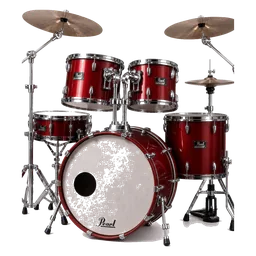
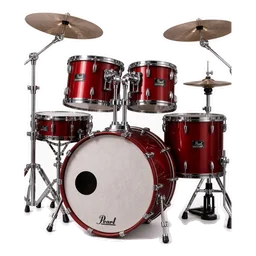
club27: solid rimshot drum heads; drop Regulars note blurb
Recut rimshot.webp so kick/tom/snare heads stay opaque white (edge flood
only removes border-connected background). Remove the static reg-note under
Regulars; empty-state copy in realtime.js drops the parenthetical. Bump
soundboard.js + realtime.js caches to club27.

Changed region(s): [[0.0625, 0.0312, 0.9375, 0.9688]]

diff --git a/soundboard.js b/soundboard.js
@@ -7,7 +7,7 @@ const LIB={
   'airhorn':       {name:'Airhorn',         label:'AIRHORN',          sub:'Stadium blast',    em:'<img class="em-img" src="img/sb/airhorn.webp?v=club26" alt="" draggable="false">', burst:'BWAAAMP!',      fx:['📢','🔊','🎉','🤯'], cr:{t:'DJ airhorn sound',by:'pfranzen',u:'https://freesound.org/people/pfranzen/sounds/528807/'}},
   'fanfare':       {name:'Triumphant horns',label:'TRIUMPHANT HORNS', sub:'Ta-ta-ta-TAAA',    em:'<img class="em-img" src="img/sb/fanfare.webp?v=club26" alt="" draggable="false">', burst:'TA-DAAA!',      fx:['🎺','👑','🏆','✨'], cr:{t:'Success Fanfare Trumpets.mp3',by:'FunWithSound',u:'https://freesound.org/people/FunWithSound/sounds/456966/'}},
   'vader-breath':  {name:'Vader breath',    label:'VADER BREATH',     sub:'Heavy breathing',  em:'<img class="em-img" src="img/sb/vader-breath.webp?v=club26" alt="" draggable="false">', burst:'*kshhh-pahhh*', fx:['🖤','🌑','💨','⚫'], cr:{t:'Gas Mask breath',by:'Nuclearoid',u:'https://freesound.org/people/Nuclearoid/sounds/435825/'}},
-  'rimshot':       {name:'Rimshot',         label:'RIMSHOT',          sub:'Ba-dum-tss',       em:'<img class="em-img" src="img/sb/rimshot.webp?v=club26" alt="" draggable="false">', burst:'BA-DUM-TSS!',   fx:['🥁','😂','👏'], cr:{t:'Ba Dum Tss! (classic edition)',by:'DJczyszy',u:'https://freesound.org/people/DJczyszy/sounds/431811/'}},
+  'rimshot':       {name:'Rimshot',         label:'RIMSHOT',          sub:'Ba-dum-tss',       em:'<img class="em-img" src="img/sb/rimshot.webp?v=club27" alt="" draggable="false">', burst:'BA-DUM-TSS!',   fx:['🥁','😂','👏'], cr:{t:'Ba Dum Tss! (classic edition)',by:'DJczyszy',u:'https://freesound.org/people/DJczyszy/sounds/431811/'}},
   'crowd-ooh':     {name:'Crowd "ooooh"',   label:'CROWD OOOH',       sub:'Collective oooh',  em:'<img class="em-img" src="img/sb/crowd-ooh.webp?v=club26" alt="" draggable="false">', burst:'OOOOOH!',       fx:['😮','😲','🙊'], cr:{t:'Crowd Oooh.wav',by:'deleted_user_2104797',u:'https://freesound.org/s/324890/'}},
   'sad-trombone':  {name:'Sad trombone',    label:'SAD TROMBONE',     sub:'Wah wah waaah',    em:'<img class="em-img" src="img/sb/sad-trombone.webp?v=club26" alt="" draggable="false">', burst:'WAH WAAAH…',    fx:['😢','💔','📉'], cr:{t:'wah wah sad trombone.wav',by:'kirbydx',u:'https://freesound.org/people/kirbydx/sounds/175409/'}},
   'record-scratch':{name:'Record scratch',  label:'RECORD SCRATCH',   sub:'Wait, what?',      em:'<img class="em-img" src="img/sb/record-scratch.webp?v=club26" alt="" draggable="false">', burst:'SKRRRT!',       fx:['💿','⏪','🤨'], cr:{t:'Record Scratch #1',by:'musicvision31',u:'https://freesound.org/people/musicvision31/sounds/431774/'}},

diff --git a/realtime.js b/realtime.js
@@ -380,7 +380,7 @@ function renderRegs(){const el=$('regs');if(!el)return;const fin=FINAL(),cur=fin
   const gtc=gtWinner();if(gtc&&vis.has(gtc.id)&&!rs.some(c=>c.id===gtc.id))rs.push(gtc);rs.sort((a,b)=>a.ord-b.ord);
   const pill=$('regPill');if(pill){pill.textContent=rs.length?(fin?`${rs.length} up · replay`:`${rs.length} up tonight`):(fin?'replay':'0 up');pill.classList.toggle('final',fin)}
   if(!rs.length&&fin){el.innerHTML='<div class="empty">No regulars in this episode\'s lineup.</div>';return}
-  if(!rs.length){el.innerHTML='<div class="empty">Regulars and golden ticket winners appear here the moment they hit the stage (start, middle and end of the show) and stay all night.</div>';return}
+  if(!rs.length){el.innerHTML='<div class="empty">Regulars and golden ticket winners appear here the moment they hit the stage and stay all night.</div>';return}
   const mine=ST.me&&ST.me.votes||{},live=ST.episode.status==='live';
   el.innerHTML=rs.map((r,k)=>{const g=GRAD[(k+2)%GRAD.length],a=r.avg==null?null:+r.avg,now=r.id===cur;
     return `<div class="pm reg${now?' now':''}${fin&&r.start_offset!=null?' seekable':''}" data-id="${r.id}"${fin&&r.start_offset!=null?` title="Jump the video to ${esc(r.name)}"`:''}><div class="av${gtc&&r.id===gtc.id?' av-gt':''}" style="--g:linear-gradient(135deg,${g[0]},${g[1]});--rc:${gtc&&r.id===gtc.id?'#ffc23d':g[0]}">${avInner(r.name)}</div>

diff --git a/index.html b/index.html
@@ -140,7 +140,6 @@
       <div class="card regcard">
         <div class="card-h"><h3><span class="ic" style="background:rgba(255,194,61,.18)">⭐</span>REGULARS AND GOLDEN TICKET WINNERS</h3><span class="pill" id="regPill">3 up tonight</span></div>
         <div class="panel-list" id="regs"></div>
-        <div class="reg-note">Regulars join this list the moment they hit the stage (start, middle and end of the show) and stay all night. Rate any of them, anytime.</div>
       </div>
 
       <div class="card panelcard">
@@ -220,10 +219,10 @@
 <script src="marquee.js?v=club3"></script>
 <script src="app.js?v=club17"></script>
 <script src="sounds-data.js"></script>
-<script src="soundboard.js?v=club26"></script>
+<script src="soundboard.js?v=club27"></script>
 <script src="live.js?v=club3"></script>
 <script src="red.js?v=club3"></script>
-<script src="realtime.js?v=club24"></script>
+<script src="realtime.js?v=club27"></script>
 <script>if("serviceWorker" in navigator){window.addEventListener("load",function(){navigator.serviceWorker.register("/sw.js").catch(function(){});});}</script>
 </body>
 </html>
